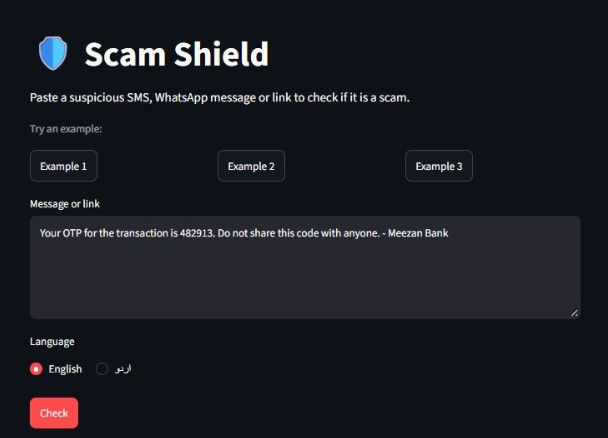
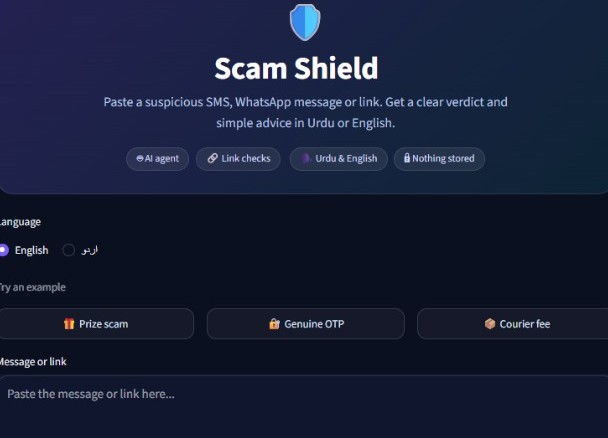
Add README with screenshots, fix Urdu privacy line

diff --git a/README.md b/README.md
@@ -1,43 +1,87 @@
-# Scam Shield
+<div align="center">
 
-An AI agent that checks suspicious SMS, WhatsApp messages and links for scams and explains the result in simple Urdu or English.
+# 🛡 Scam Shield
 
-**Live demo:** https://scamshieldapp-gw873grbsmcqdnx8p7qhet.streamlit.app/ (on the free hosting plan the app may be asleep, so the first load can take up to a minute)
-**Demo video:** video link coming soon
+**An AI agent that checks suspicious SMS, WhatsApp messages and links, and explains in simple Urdu or English why they look like scams.**
 
-## Problem
+[![Live demo](https://img.shields.io/badge/Live%20demo-open%20the%20app-ff4b4b?style=for-the-badge)](https://scamshieldapp-gw873grbsmcqdnx8p7qhet.streamlit.app/#scam-shield)
+
+
+![Python](https://img.shields.io/badge/Python-3-3776AB?logo=python&logoColor=white)
+![Gemini API](https://img.shields.io/badge/Google-Gemini%20API-4285F4)
+![Streamlit](https://img.shields.io/badge/Streamlit-app-FF4B4B?logo=streamlit&logoColor=white)
+![Hackathon](https://img.shields.io/badge/NYLP%20AI%20Hackathon-2026-6f42c1)
+
+<sub>On the free hosting plan the app may be asleep, so the first load can take up to a minute.</sub>
+
+</div>
+
+---
+
+## 📌 The problem
+
 Scams in Pakistan spread mainly through SMS, WhatsApp and fake links: fake prize messages in the name of mobile wallets, fake bank alerts, "your account will be blocked" threats, courier fee scams and fake job offers. Many victims cannot tell a real message from a fake one, and no simple tool explains *why* something is suspicious in their own language.
 
-## Solution
-The user pastes a message or link, picks Urdu or English, and gets:
-- a risk level (Safe / Suspicious / Dangerous) with a confidence score
-- the red flags found
-- a plain-language explanation
-- what to do next
-- a short note on the scam type
+## 💡 The solution
 
-## Features
+Paste a message or link, pick Urdu or English, and get an answer in seconds:
+
+| You get | Example |
+|---|---|
+| **Risk level** with a confidence score | Safe / Suspicious / Dangerous |
+| **Red flags found** | "creates false urgency", "link domain does not match the claimed sender" |
+| **Plain-language explanation** | why the message looks like a scam, or why it looks genuine |
+| **What to do next** | don't click, never share an OTP, contact the bank on its official number |
+| **Learn more** | a short note on how this type of scam works |
+
+## 📸 Screenshots
+
+<table><tr><td align="center" valign="top" width="25%"><img src="screenshots/input-screen.jpg" alt="Paste a message, pick a language"><br><sub>Paste a message, pick a language</sub></td><td align="center" valign="top" width="25%"><img src="screenshots/safe-result.jpg" alt="A genuine OTP message is marked Safe"><br><sub>A genuine OTP message is marked Safe</sub></td><td align="center" valign="top" width="25%"><img src="screenshots/dangerous-result.jpg" alt="A fake prize message is marked Dangerous"><br><sub>A fake prize message is marked Dangerous</sub></td><td align="center" valign="top" width="25%"><img src="screenshots/urdu-result.jpg" alt="The same result in Urdu"><br><sub>The same result in Urdu</sub></td></tr></table>
+
+## 🧠 How it works
+
+The agent decides which tools to call based on the input (no link means no URL check), then combines the evidence in one reasoning step.
+
+```mermaid
+flowchart LR
+    A["User pastes a message or link"] --> B{"Contains a link?"}
+    B -- yes --> C["URL analyzer<br/>lookalike domains, shorteners,<br/>risky endings, domain age"]
+    B -- no --> D
+    C --> D["Pattern matcher<br/>local scam rules and legit signals"]
+    D --> E["Gemini reasoning<br/>message plus tool evidence"]
+    E --> F["Structured JSON verdict"]
+    F --> G["Result card in English or Urdu"]
+```
+
+1. **URL analyzer (pure Python):** finds links and checks lookalike domains against official brand domains, URL shorteners, IP-address links, suspicious domain endings, subdomain count, HTTPS, and domain age via WHOIS.
+2. **Pattern matcher (rules and regex):** local scam types such as prize/lottery, wallet and bank impersonation, OTP requests, courier fees, job offers and government payment schemes, plus signals of legitimate messages.
+3. **Reasoning step (LLM):** Gemini receives the original message and all tool outputs and returns a structured JSON verdict. The tool findings are evidence for the model, so it does not simply guess.
+4. **Output formatter:** the web UI renders the verdict in the chosen language, right to left for Urdu.
+
+**Prompt and output design.** The prompt tells the model to judge what a message asks the user to do, not just whether it mentions a bank or courier, which is meant to avoid false alarms on genuine OTPs and bank alerts. The model must return JSON that matches a fixed schema (risk, confidence, scam type, tactics, flags, explanation, advice, learn-more), enforced with Gemini's structured-output feature, so the UI never parses free text. The model gets the tool findings as evidence and is told to weigh them rather than trust them blindly. A prompt rule forbids inventing phone numbers, helplines or websites, so users are sent to "the official number on the back of your card or the official website". Temperature is 0 for repeatable results.
+
+## ✨ Features
+
 - Text input in English, Roman Urdu or Urdu script
 - Urdu and English output
 - Evidence from tools, not only the model's opinion
 - The app does not store messages
 
-## How the AI works (methodology)
-The agent runs a pipeline and decides which tools to call based on the input (no link means no URL check):
-1. **URL analyzer (pure Python):** finds links and checks lookalike domains against a list of official brand domains, URL shorteners, IP-address links, suspicious domain endings, subdomain count, HTTPS, and domain age via WHOIS.
-2. **Pattern matcher (rules and regex):** local scam types such as prize/lottery, wallet and bank impersonation, OTP requests, courier fees, job offers and government payment schemes, plus signals of legitimate messages.
-3. **Reasoning step (LLM):** Gemini receives the original message and all tool outputs and returns a structured JSON verdict (risk, confidence, scam type, tactics, flags, explanation, advice). The tool findings are evidence for the model, so it does not simply guess.
-4. **Output formatter:** the web UI renders the verdict in the chosen language.
+## 🧰 Tech stack and AI usage
 
-**Prompt and output design.** The prompt tells the model to judge what a message asks the user to do, not just whether it mentions a bank or courier, which is meant to avoid false alarms on genuine OTPs and bank alerts. The model must return JSON that matches a fixed schema (risk, confidence, scam type, tactics, flags, explanation, advice, learn-more), enforced with Gemini's structured-output feature, so the UI never parses free text. The model gets the tool findings as evidence and is told to weigh them rather than trust them blindly. A prompt rule forbids inventing phone numbers, helplines or websites, so users are sent to "the official number on the back of your card or the official website". Temperature is 0 for repeatable results.
+| Part | Tool |
+|---|---|
+| LLM | **Google Gemini API**, model `gemini-3.1-flash-lite` (free tier): reasoning, structured JSON output, Urdu generation |
+| Agent logic | Python functions |
+| URL checks | `tldextract`, `python-whois` |
+| Web UI | Streamlit (live demo), Gradio (alternative `app.py`) |
+| Hosting | Streamlit Community Cloud |
+| Development | Google Colab, GitHub |
 
-## AI / API usage
-- **Google Gemini API** (`gemini-3.1-flash-lite`, free tier): reasoning, structured JSON output and Urdu generation.
-- Libraries: `google-genai`, `tldextract`, `python-whois`, `streamlit`, `gradio`, `pydantic`, `requests`.
-- Hosting: Streamlit Community Cloud. Development: Google Colab.
-- AI coding assistants were used as development helpers. We tested and reviewed the code ourselves.
+AI coding assistants were used as development helpers. We tested and reviewed the code ourselves.
 
-## Evaluation
+## 📊 Evaluation
+
 We tested on 50 messages, using the same model (`gemini-3.1-flash-lite`) for every run. "Suspicious" counts as a scam prediction.
 
 | Test set | Mode | Accuracy | Precision | Recall | False-positive rate |
@@ -47,9 +91,12 @@ We tested on 50 messages, using the same model (`gemini-3.1-flash-lite`) for eve
 | Hard (10: 5 scam, 5 legit) | LLM only | 100% | 100% | 100% | 0% |
 | Hard (10: 5 scam, 5 legit) | LLM + tools | 100% | 100% | 100% | 0% |
 
-**What this means:** the tools did not change accuracy on our data, since both modes classified every message correctly. The test messages were written by us as realistic examples based on common scam patterns, so they are cleaner than real-world messages and this is not a real-world accuracy figure. The tools add evidence and explainability: for example the registered domain, a lookalike match against the official brand domain and the domain age, none of which the model can verify on its own. Raw results are in the `data/` folder.
+> **What this means:** the tools did not change accuracy on our data, since both modes classified every message correctly. The test messages were written by us as realistic examples based on common scam patterns, so they are cleaner than real-world messages and this is not a real-world accuracy figure. The tools add evidence and explainability: for example the registered domain, a lookalike match against the official brand domain and the domain age, none of which the model can verify on its own.
 
-## Limitations
+Test sets and raw results are in the [`data/`](data/) folder.
+
+## ⚠ Limitations
+
 - Small test set, mostly written by us. Real scams are messier, so real-world accuracy is unknown.
 - The list of official brand domains is hand-made and incomplete.
 - WHOIS lookups can fail or time out, so domain age is sometimes missing.
@@ -57,15 +104,35 @@ We tested on 50 messages, using the same model (`gemini-3.1-flash-lite`) for eve
 - Messages are sent to Google's Gemini API for analysis. The app does not store them, but check Google's terms for free-tier data use.
 - This is an assistant, not a replacement for reporting scams to the authorities. Always verify through the official channel.
 
-## Setup
+## 🗂 Project structure
+├── agent/
+│ ├── core.py # agent pipeline: decides which tools to call
+│ ├── url_tools.py # URL analyzer
+│ ├── patterns.py # pattern matcher
+│ └── llm.py # Gemini call and structured JSON verdict
+├── streamlit_app.py # web UI (live demo)
+├── app.py # Gradio version of the UI
+├── data/ # test sets and evaluation results
+└── requirements.txt
+
+
+## 🚀 Setup
+
+<details>
+<summary>Run it yourself</summary>
+
 1. Clone the repository.
 2. `pip install -r requirements.txt`
-3. Set the environment variables (do NOT commit real keys): `GEMINI_API_KEY` and optionally `GEMINI_MODEL` (we used `gemini-3.1-flash-lite`).
+3. Set the environment variables (do **not** commit real keys): `GEMINI_API_KEY`, and optionally `GEMINI_MODEL` (we used `gemini-3.1-flash-lite`).
 4. Run `streamlit run streamlit_app.py` (or `python app.py` for the Gradio version).
 
-## Screenshots
-Add images here: a Dangerous result, a Safe result, the Urdu view.
+</details>
 
-## Team contributions
-- **Ayesha Zulfiqar (@ayeshaazulfiqar):** backend agent, Gemini integration, URL analyzer, pattern matcher.
-- **Laiba Khan (@laibakh4n):** test set, web UI, evaluation, deployment, README, demo video.
+## 👥 Team
+
+| Who | Contribution |
+|---|---|
+| **Ayesha Zulfiqar** ([@ayeshaazulfiqar](https://github.com/ayeshaazulfiqar)) | Backend agent, Gemini integration, URL analyzer, pattern matcher |
+| **Laiba Khan** ([@laibakh4n](https://github.com/laibakh4n)) | Test set, web UI, evaluation, deployment, demo video |
+
+Built for the NYLP AI Hackathon 2026.
